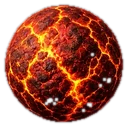
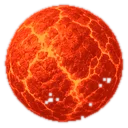
Sudoku 1c: modal Settings, first-visit fix, readable notes, pad completion, planets

diff --git a/games/sudoku.html b/games/sudoku.html
@@ -356,12 +356,13 @@
     .settings-sheet {
       position: fixed;
       inset: 0;
-      z-index: 80;
+      z-index: 400;
       display: flex;
       align-items: flex-end;
       justify-content: center;
       padding: 0.75rem;
       background: rgba(2, 4, 14, 0.62);
+      touch-action: manipulation;
     }
     #settingsMenu[hidden] { display: none !important; }
     .settings-card {
@@ -504,6 +505,10 @@
       .hud-row { min-height: 32px; padding: 0.15rem 0.4rem 0.15rem 0.55rem; }
       .hud-pause { min-height: 32px; }
       .num-btn { aspect-ratio: auto; min-height: 40px; height: 40px; font-size: 1.05rem; }
+      .cell { padding: 0; }
+      .cell-notes,
+      .note-dot { min-width: 0; min-height: 0; }
+      .note-dot { font-size: 10px; line-height: 1; }
       .action-btns .btn { min-height: 40px; padding: 0.2rem 0.35rem; font-size: 0.8rem; }
       .sdk-daily { min-height: 36px; }
     }
@@ -797,6 +802,7 @@ var settings = { mistakeLimit: true, autoNotes: false, planets: false, sound: fa
 var blockBoardUntil = 0;
 var pointerSelectUntil = 0;
 var suppressWinAnim = false;
+var settingsGesture = false;
 
 function lsGet(key) { try { return localStorage.getItem(key); } catch (e) { return null; } }
 function storageKept() {
@@ -884,6 +890,44 @@ function pinScroll(x, y) {
   setTimeout(function () { window.removeEventListener('scroll', onScroll, true); }, 300);
 }
 function boardBlocked() { return Date.now() < blockBoardUntil; }
+function settingsOn() {
+  var menu = document.getElementById('settingsMenu');
+  return !!(menu && !menu.hidden);
+}
+function setGameInert(on) {
+  document.querySelectorAll('nav, .game-layout, .cg-daily-dock, .rg-section, footer').forEach(function (el) {
+    if (on) el.setAttribute('inert', '');
+    else el.removeAttribute('inert');
+  });
+}
+function closeSettings(e) {
+  if (e) { e.preventDefault(); e.stopPropagation(); }
+  var menu = document.getElementById('settingsMenu');
+  var btn = document.getElementById('settingsBtn');
+  if (menu) menu.hidden = true;
+  if (btn) btn.setAttribute('aria-expanded', 'false');
+  setGameInert(false);
+  settingsGesture = false;
+  blockBoardUntil = Date.now() + 350;
+  pinScroll(window.scrollX, window.scrollY);
+}
+function openSettings(e) {
+  if (e) { e.preventDefault(); e.stopPropagation(); }
+  var menu = document.getElementById('settingsMenu');
+  var btn = document.getElementById('settingsBtn');
+  if (!menu) return;
+  var x = window.scrollX, y = window.scrollY;
+  menu.hidden = false;
+  if (btn) btn.setAttribute('aria-expanded', 'true');
+  setGameInert(true);
+  settingsGesture = true;
+  focusNoScroll(menu);
+  pinScroll(x, y);
+  setTimeout(function () { settingsGesture = false; }, 400);
+}
+function inSettingsCard(target) {
+  return !!(target && target.closest && target.closest('#settingsCard, #settingsBtn'));
+}
 function randomSeed() {
   try {
     var buf = new Uint32Array(1);
@@ -1440,7 +1484,7 @@ function renderBoard() {
   highlightCells();
 }
 function selectCell(r, c) {
-  if (paused || boardBlocked()) return;
+  if (paused || boardBlocked() || settingsOn()) return;
   selected = { r: r, c: c };
   highlightCells();
   focusNoScroll(cellEl(r, c));
@@ -1464,7 +1508,8 @@ function buildNumpad() {
   pad.innerHTML = '';
   var counts = [0, 0, 0, 0, 0, 0, 0, 0, 0, 0];
   for (var r = 0; r < 9; r++) for (var c = 0; c < 9; c++) {
-    var value = userGrid[r][c] || puzzle[r][c];
+    var value = puzzle[r][c];
+    if (!value && userGrid[r][c] && userGrid[r][c] === solved[r][c]) value = userGrid[r][c];
     if (value) counts[value]++;
   }
   for (var n = 1; n <= 9; n++) {
@@ -1609,7 +1654,7 @@ function readSelection() {
   return { r: +el.dataset.r, c: +el.dataset.c };
 }
 function inputNum(n) {
-  if (boardBlocked() || !selected || typeof selected.r !== 'number' || done || paused) return;
+  if (boardBlocked() || settingsOn() || !selected || typeof selected.r !== 'number' || done || paused) return;
   var r = selected.r, c = selected.c;
   if (puzzle[r][c] !== 0) return;
   markPlayed();
@@ -1656,7 +1701,7 @@ function inputNum(n) {
 }
 
 function useHint() {
-  if (boardBlocked() || hintsLeft <= 0 || !selected || typeof selected.r !== 'number' || done || paused) return;
+  if (boardBlocked() || settingsOn() || hintsLeft <= 0 || !selected || typeof selected.r !== 'number' || done || paused) return;
   var r = selected.r, c = selected.c;
   if (puzzle[r][c] !== 0) return;
   if (userGrid[r][c] === solved[r][c]) return;
@@ -1874,12 +1919,11 @@ function shareWin() {
 
 document.addEventListener('keydown', function (e) {
   if (e.key === 'Escape') {
-    document.getElementById('settingsMenu').hidden = true;
-    document.getElementById('settingsBtn').setAttribute('aria-expanded', 'false');
-    if (paused) setPaused(false);
+    if (settingsOn()) closeSettings();
+    else if (paused) setPaused(false);
     return;
   }
-  if (paused || done || !selected || typeof selected.r !== 'number') return;
+  if (settingsOn() || paused || done || !selected || typeof selected.r !== 'number') return;
   var tag = e.target && e.target.tagName;
   if (tag === 'INPUT' || tag === 'TEXTAREA') return;
   if ((e.ctrlKey || e.metaKey) && e.key.toLowerCase() === 'z') { e.preventDefault(); undoMove(); return; }
@@ -1943,48 +1987,58 @@ function bindControls() {
   });
   var menu = document.getElementById('settingsMenu');
   var settingsBtn = document.getElementById('settingsBtn');
-  function closeSettings(e) {
-    if (e) { e.preventDefault(); e.stopPropagation(); }
-    var x = window.scrollX, y = window.scrollY;
-    menu.hidden = true;
-    settingsBtn.setAttribute('aria-expanded', 'false');
-    blockBoardUntil = Date.now() + 300;
-    pinScroll(x, y);
-  }
-  function openSettings(e) {
-    if (e) { e.preventDefault(); e.stopPropagation(); }
-    var x = window.scrollX, y = window.scrollY;
-    menu.hidden = false;
-    settingsBtn.setAttribute('aria-expanded', 'true');
-    focusNoScroll(menu);
-    pinScroll(x, y);
-  }
+  var fromPointer = false;
   menu.tabIndex = -1;
   settingsBtn.addEventListener('pointerdown', function (e) {
-    if (e.button) return;
+    if (e.pointerType === 'mouse' && e.button !== 0) return;
     e.preventDefault();
     e.stopPropagation();
+    fromPointer = true;
+    if (menu.hidden) openSettings(e);
+    else closeSettings(e);
+  });
+  settingsBtn.addEventListener('click', function (e) {
+    e.preventDefault();
+    e.stopPropagation();
+    if (fromPointer) { fromPointer = false; return; }
     if (menu.hidden) openSettings(e);
     else closeSettings(e);
   });
   document.getElementById('settingsClose').addEventListener('pointerdown', function (e) {
+    if (e.pointerType === 'mouse' && e.button !== 0) return;
     e.preventDefault();
     e.stopPropagation();
     closeSettings(e);
   });
   menu.addEventListener('pointerdown', function (e) {
-    if (e.target === menu) {
-      e.preventDefault();
-      e.stopPropagation();
-      closeSettings(e);
-    }
+    if (e.target !== menu) return;
+    e.preventDefault();
+    e.stopPropagation();
+    if (settingsGesture) return;
+    closeSettings(e);
   });
   menu.addEventListener('pointerup', function (e) { e.stopPropagation(); });
   menu.addEventListener('click', function (e) {
     e.preventDefault();
     e.stopPropagation();
-    if (e.target === menu) closeSettings(e);
+    if (e.target !== menu || settingsGesture) return;
+    closeSettings(e);
   });
+  document.addEventListener('pointerdown', function (e) {
+    if (!settingsOn() || inSettingsCard(e.target)) return;
+    e.preventDefault();
+    e.stopPropagation();
+    if (!settingsGesture) closeSettings(e);
+  }, true);
+  document.addEventListener('pointerup', function () {
+    if (!fromPointer) return;
+    setTimeout(function () { fromPointer = false; }, 0);
+  }, true);
+  document.addEventListener('click', function (e) {
+    if (!settingsOn() || !settingsGesture || inSettingsCard(e.target)) return;
+    e.preventDefault();
+    e.stopPropagation();
+  }, true);
   document.addEventListener('pointerup', function (e) {
     if (!boardBlocked() || !e.target || !e.target.closest) return;
     if (e.target.closest('#board, #numpad, .board-frame')) {
